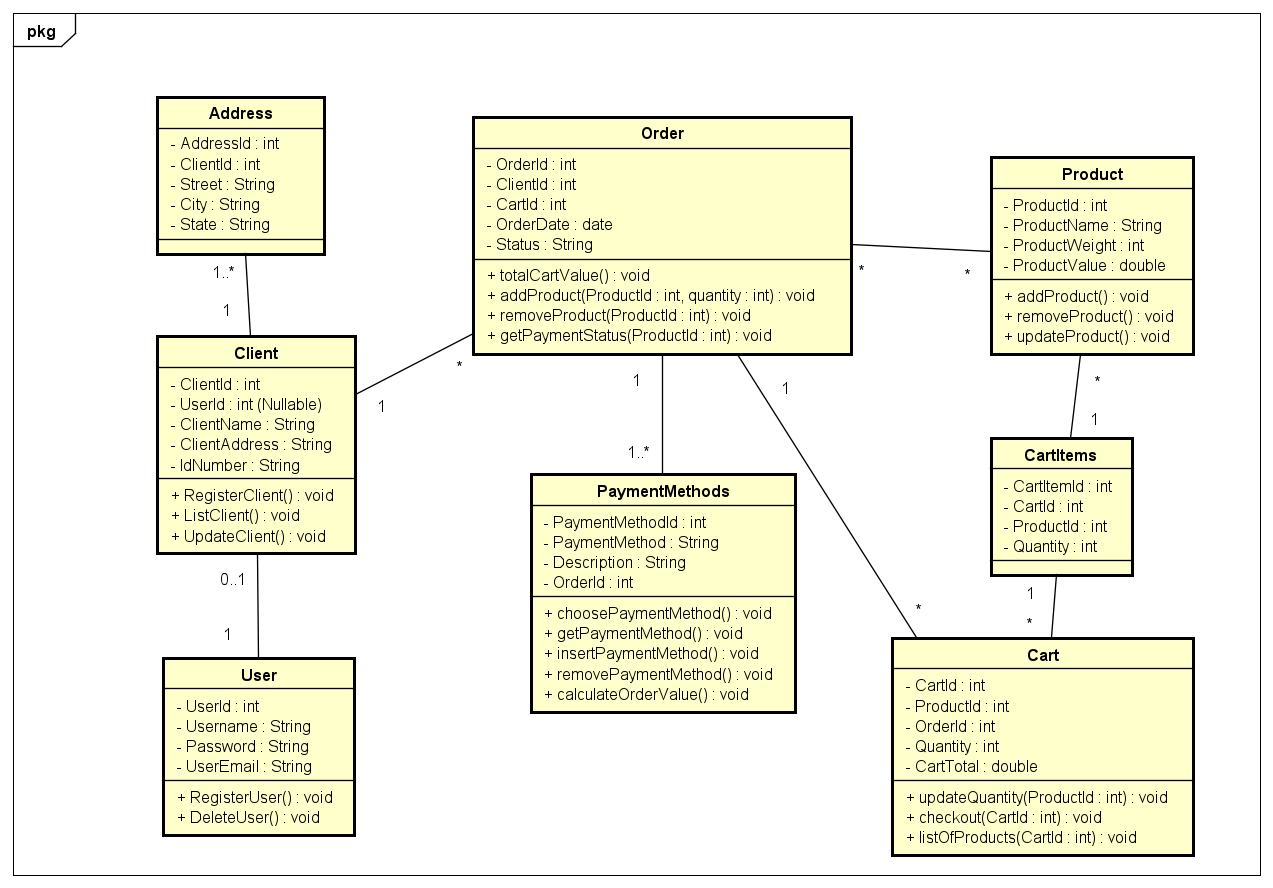
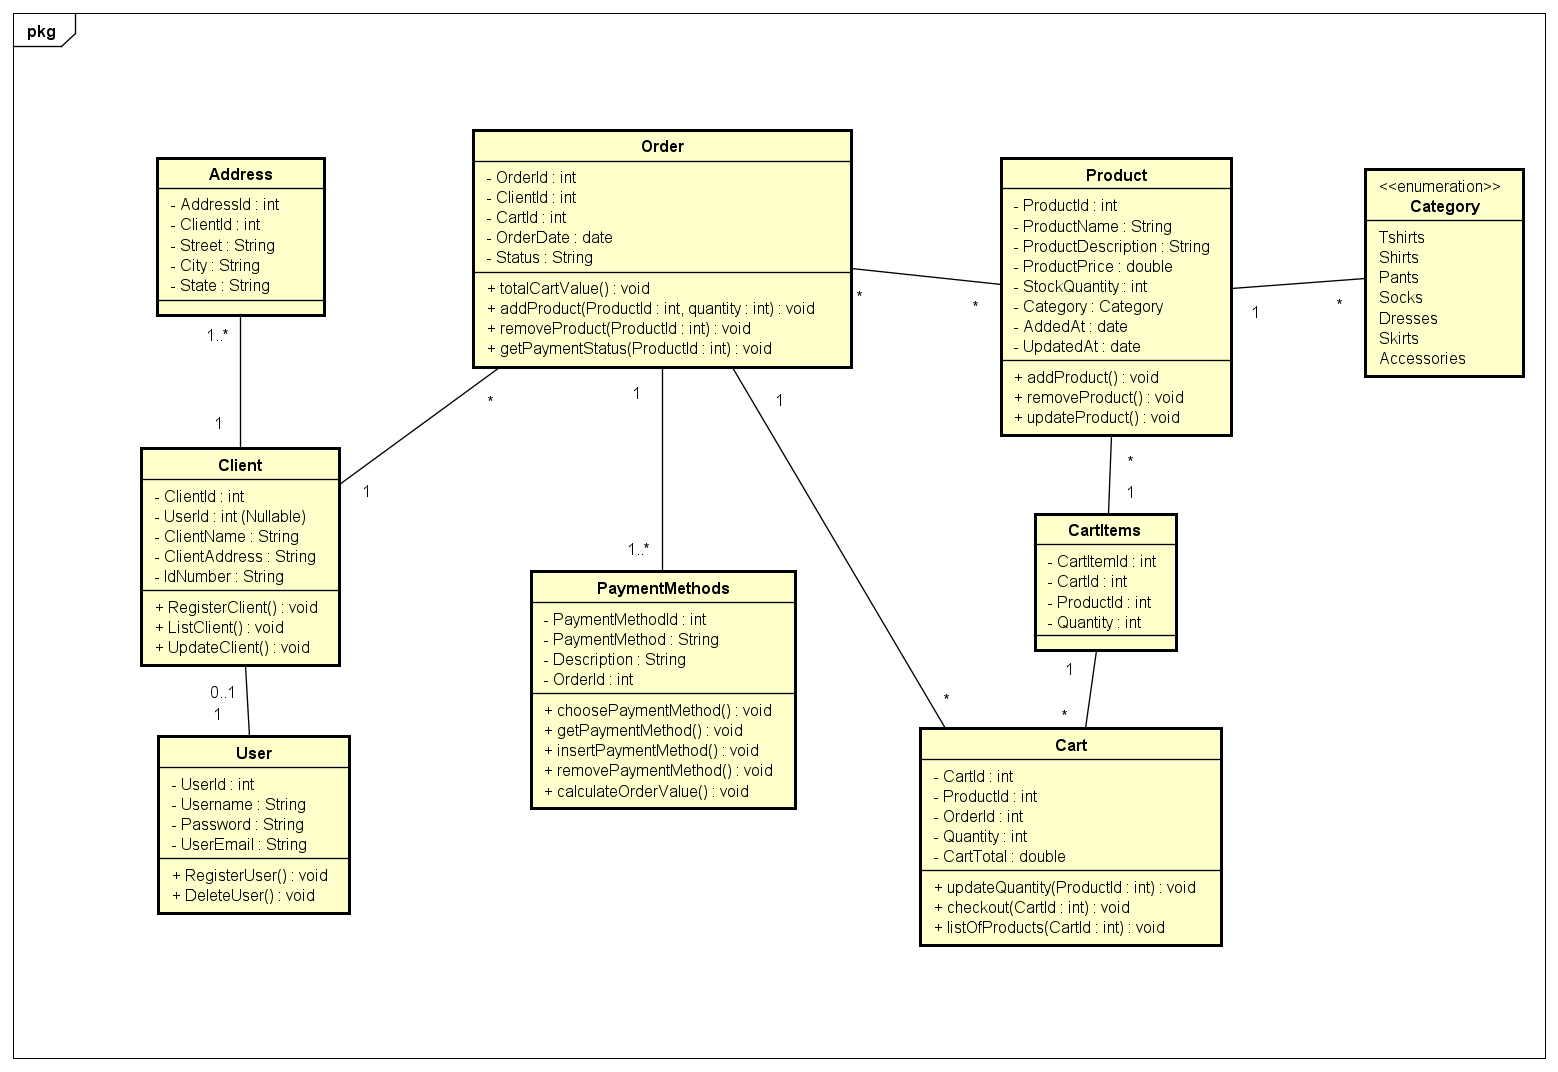
Creating all entities, updating the modeling, adding more endpoints and business rules

diff --git a/src/main/java/br/com/devannis/webmarket/service/ProductService.java b/src/main/java/br/com/devannis/webmarket/service/ProductService.java
@@ -1,0 +1,58 @@
+package br.com.devannis.webmarket.service;
+
+import br.com.devannis.webmarket.exception.ProductNotFoundException;
+import br.com.devannis.webmarket.model.dto.ProductRequestDTO;
+import br.com.devannis.webmarket.model.dto.ProductResponseDTO;
+import br.com.devannis.webmarket.model.entity.Product;
+import br.com.devannis.webmarket.repository.ProductRepository;
+import org.springframework.beans.BeanUtils;
+import org.springframework.beans.factory.annotation.Autowired;
+import org.springframework.stereotype.Service;
+
+import java.time.LocalDateTime;
+import java.util.List;
+import java.util.stream.Collectors;
+
+@Service
+public class ProductService {
+
+    @Autowired
+    private ProductRepository productRepository;
+
+    public ProductResponseDTO addProduct(ProductRequestDTO productRequestDTO) {
+        Product product = new Product();
+
+        BeanUtils.copyProperties(productRequestDTO, product);
+
+        Product savedProduct = productRepository.save(product);
+
+        return new ProductResponseDTO(savedProduct);
+    }
+
+    public ProductResponseDTO searchByProductId(Long id) {
+        Product product = productRepository.findById(id).orElseThrow(() -> new ProductNotFoundException("Product not found"));
+
+        return new ProductResponseDTO(product);
+    }
+
+    public List<ProductResponseDTO> searchAllProducts() {
+        return productRepository
+                .findAll()
+                .stream()
+                .map(ProductResponseDTO::new)
+                .toList();
+    }
+
+    public ProductResponseDTO updateProduct(Product product) {
+        Product existingProduct = productRepository.findById(product.getProductId()).orElseThrow(() -> new ProductNotFoundException("Product not found"));
+
+        Product updatedProduct = productRepository.save(product);
+        return new ProductResponseDTO(updatedProduct);
+    }
+
+    public void deleteProduct(Long id) {
+        Product product = productRepository.findById(id).orElseThrow(() -> new ProductNotFoundException("Product not found"));
+
+        productRepository.delete(product);
+    }
+}

diff --git a/src/main/java/br/com/devannis/webmarket/controller/ProductController.java b/src/main/java/br/com/devannis/webmarket/controller/ProductController.java
@@ -1,0 +1,50 @@
+package br.com.devannis.webmarket.controller;
+
+import br.com.devannis.webmarket.model.dto.ProductRequestDTO;
+import br.com.devannis.webmarket.model.dto.ProductResponseDTO;
+import br.com.devannis.webmarket.model.entity.Product;
+import br.com.devannis.webmarket.service.ProductService;
+import jakarta.validation.Valid;
+import org.springframework.beans.factory.annotation.Autowired;
+import org.springframework.http.HttpStatus;
+import org.springframework.web.bind.annotation.*;
+
+import java.util.List;
+
+@RestController
+@RequestMapping("/products")
+public class ProductController {
+
+    @Autowired
+    private ProductService productService;
+
+    @PostMapping()
+    @ResponseStatus(HttpStatus.CREATED)
+    public ProductResponseDTO createProduct(@RequestBody @Valid ProductRequestDTO product) {
+        return productService.addProduct(product);
+    }
+
+    @GetMapping("/{productId}")
+    @ResponseStatus(HttpStatus.OK)
+    public ProductResponseDTO getProduct(@PathVariable Long productId) {
+        return productService.searchByProductId(productId);
+    }
+
+    @GetMapping()
+    @ResponseStatus(HttpStatus.OK)
+    public List<ProductResponseDTO> getAllProducts() {
+        return productService.searchAllProducts();
+    }
+
+    @PutMapping()
+    @ResponseStatus(HttpStatus.OK)
+    public ProductResponseDTO updateProduct(@RequestBody Product product) {
+        return productService.updateProduct(product);
+    }
+
+    @DeleteMapping("/{productId}")
+    @ResponseStatus(HttpStatus.NO_CONTENT)
+    public void excludeProduct(@PathVariable Long productId) {
+        productService.deleteProduct(productId);
+    }
+}

diff --git a/src/main/java/br/com/devannis/webmarket/model/dto/ProductRequestDTO.java b/src/main/java/br/com/devannis/webmarket/model/dto/ProductRequestDTO.java
@@ -1,30 +1,28 @@
 package br.com.devannis.webmarket.model.dto;
 
+import br.com.devannis.webmarket.model.enums.Category;
 import jakarta.validation.constraints.Min;
 import jakarta.validation.constraints.NotBlank;
 import jakarta.validation.constraints.NotNull;
 
+import java.time.LocalDateTime;
+
 public record ProductRequestDTO(
 
+        Long productId,
+
         @NotBlank(message = "O nome do produto é obrigatório")
-        String name,
+        String productName,
 
-        String description,
-
-        String imageUrl,
+        String productDescription,
 
         @NotNull(message = "O preço do produto é obrigatório")
         @Min(value = 0, message = "O preço deve ser maior ou igual a zero")
-        Double price,
+        Double productPrice,
 
         @NotNull(message = "A quantidade em estoque é obrigatória")
         @Min(value = 0, message = "A quantidade em estoque não pode ser negativa")
-        Integer stockQuantity,
+        int stockQuantity,
 
-        @NotNull(message = "O peso do produto é obrigatório")
-        @Min(value = 0, message = "O peso deve ser maior ou igual a zero")
-        Double weight,
-
-        @NotNull(message = "A categoria do produto é obrigatória")
-        Long categoryId
+        Category category
 ) {}

diff --git a/src/main/java/br/com/devannis/webmarket/model/entity/Order.java b/src/main/java/br/com/devannis/webmarket/model/entity/Order.java
@@ -1,0 +1,35 @@
+package br.com.devannis.webmarket.model.entity;
+
+import jakarta.persistence.*;
+import lombok.AllArgsConstructor;
+import lombok.Getter;
+import lombok.NoArgsConstructor;
+import lombok.Setter;
+
+import java.time.LocalDateTime;
+import java.util.List;
+
+@Entity
+@Table(name = "TB_ORDER")
+@Getter
+@Setter
+@AllArgsConstructor
+@NoArgsConstructor
+public class Order {
+
+    @Id
+    @GeneratedValue(strategy = GenerationType.SEQUENCE, generator = "SEQ_ORDER")
+    @SequenceGenerator(name = "SEQ_ORDER", sequenceName = "SEQ_ORDER", allocationSize = 1)
+    private Long orderId;
+
+    @ManyToOne
+    @JoinColumn(name = "client_id")
+    private Client client;
+
+    @OneToMany
+    private List<Cart> cart;
+
+    private LocalDateTime orderDate;
+
+    private String status;
+}

diff --git a/src/main/java/br/com/devannis/webmarket/model/entity/Cart.java b/src/main/java/br/com/devannis/webmarket/model/entity/Cart.java
@@ -1,0 +1,33 @@
+package br.com.devannis.webmarket.model.entity;
+
+import jakarta.persistence.*;
+import lombok.AllArgsConstructor;
+import lombok.Getter;
+import lombok.NoArgsConstructor;
+import lombok.Setter;
+
+@Entity
+@Table(name = "TB_CART")
+@Getter
+@Setter
+@AllArgsConstructor
+@NoArgsConstructor
+public class Cart {
+
+    @Id
+    @GeneratedValue(strategy = GenerationType.SEQUENCE, generator = "SEQ_CART")
+    @SequenceGenerator(name = "SEQ_CART", sequenceName = "SEQ_CART", allocationSize = 1)
+    private Long cartId;
+
+    @ManyToOne
+    @JoinColumn(name = "product_id")
+    private Product product;
+
+    @ManyToOne
+    @JoinColumn(name = "order_id")
+    private Order order;
+
+    private int quantity;
+
+    private Double cartTotal;
+}

diff --git a/src/main/java/br/com/devannis/webmarket/model/entity/PaymentMethods.java b/src/main/java/br/com/devannis/webmarket/model/entity/PaymentMethods.java
@@ -1,0 +1,29 @@
+package br.com.devannis.webmarket.model.entity;
+
+import jakarta.persistence.*;
+import lombok.AllArgsConstructor;
+import lombok.Getter;
+import lombok.NoArgsConstructor;
+import lombok.Setter;
+
+@Entity
+@Table(name = "TB_PAYMENT_METHODS")
+@Getter
+@Setter
+@AllArgsConstructor
+@NoArgsConstructor
+public class PaymentMethods {
+
+    @Id
+    @GeneratedValue(strategy = GenerationType.SEQUENCE, generator = "SEQ_PAYMENT")
+    @SequenceGenerator(name = "SEQ_PAYMENT", sequenceName = "SEQ_PAYMENT", allocationSize = 1)
+    private Long paymentMethodId;
+
+    private String paymentMethodName;
+
+    private String description;
+
+    @ManyToOne
+    @JoinColumn(name = "order_id")
+    private Order order;
+}

diff --git a/src/main/java/br/com/devannis/webmarket/model/entity/CartItems.java b/src/main/java/br/com/devannis/webmarket/model/entity/CartItems.java
@@ -1,0 +1,31 @@
+package br.com.devannis.webmarket.model.entity;
+
+import jakarta.persistence.*;
+import lombok.AllArgsConstructor;
+import lombok.Getter;
+import lombok.NoArgsConstructor;
+import lombok.Setter;
+
+import java.util.List;
+
+@Entity
+@Table(name = "TB_CART_ITEMS")
+@Getter
+@Setter
+@NoArgsConstructor
+@AllArgsConstructor
+public class CartItems {
+
+    @Id
+    @GeneratedValue(strategy = GenerationType.SEQUENCE, generator = "SEQ_CART_ITEMS")
+    @SequenceGenerator(name = "SEQ_CART_ITEMS", sequenceName = "SEQ_CART_ITEMS", allocationSize = 1)
+    private Long cartItemId;
+
+    @OneToMany
+    private List<Cart> cart;
+
+    @OneToMany
+    private List<Product> products;
+
+    private int quantity;
+}

diff --git a/src/main/java/br/com/devannis/webmarket/model/dto/ProductResponseDTO.java b/src/main/java/br/com/devannis/webmarket/model/dto/ProductResponseDTO.java
@@ -1,0 +1,24 @@
+package br.com.devannis.webmarket.model.dto;
+
+import br.com.devannis.webmarket.model.entity.Product;
+import br.com.devannis.webmarket.model.enums.Category;
+
+public record ProductResponseDTO(
+        Long productId,
+        String name,
+        String description,
+        Double price,
+        Integer stockQuantity,
+        Category category
+) {
+    public ProductResponseDTO(Product product) {
+        this (
+            product.getProductId(),
+                product.getProductName(),
+                product.getProductDescription(),
+                product.getProductPrice(),
+                product.getStockQuantity(),
+                product.getCategory()
+        );
+    }
+}

diff --git a/src/main/java/br/com/devannis/webmarket/service/ClientService.java b/src/main/java/br/com/devannis/webmarket/service/ClientService.java
@@ -70,14 +70,8 @@ public class ClientService {
     }
 
     public void deleteClientById(Long id) {
-        Optional<Client> clientOptional = clientRepository.findById(id);
+        Client existingClient = clientRepository.findById(id).orElseThrow(() -> new ClientNotFoundException("Client not found"));
 
-        if (clientOptional.isPresent()) {
-            System.out.println(clientOptional.get());
-
-            clientRepository.delete(clientOptional.get());
-        } else {
-            throw new ClientNotFoundException("Client do not exist");
-        }
+        clientRepository.delete(existingClient);
     }
 }

diff --git a/src/main/java/br/com/devannis/webmarket/model/entity/Product.java b/src/main/java/br/com/devannis/webmarket/model/entity/Product.java
@@ -1,5 +1,6 @@
 package br.com.devannis.webmarket.model.entity;
 
+import br.com.devannis.webmarket.model.enums.Category;
 import jakarta.persistence.*;
 import lombok.AllArgsConstructor;
 import lombok.Getter;
@@ -31,7 +32,7 @@ public class Product {
     private Double productPrice;
 
     @Column(name = "stock")
-    private Integer stockQuantity;
+    private int stockQuantity;
 
     @Enumerated(EnumType.STRING)
     private Category category;

diff --git a/src/main/java/br/com/devannis/webmarket/controller/UserController.java b/src/main/java/br/com/devannis/webmarket/controller/UserController.java
@@ -34,7 +34,7 @@ public class UserController {
     @GetMapping("/{userId}")
     @ResponseStatus(HttpStatus.OK)
     public ResponseEntity<UserResponseDTO> searchById(@PathVariable Long userId) {
-        return ResponseEntity.ok(userService.searchById(userId));
+        return ResponseEntity.ok(userService.searchByUserId(userId));
     }
 
     @DeleteMapping("/{userId}")

diff --git a/src/main/java/br/com/devannis/webmarket/exception/ProductNotFoundException.java b/src/main/java/br/com/devannis/webmarket/exception/ProductNotFoundException.java
@@ -1,0 +1,12 @@
+package br.com.devannis.webmarket.exception;
+
+import org.springframework.http.HttpStatus;
+import org.springframework.web.bind.annotation.ResponseStatus;
+
+@ResponseStatus(HttpStatus.NOT_FOUND)
+public class ProductNotFoundException extends RuntimeException {
+
+    public ProductNotFoundException(String message) {
+        super(message);
+    }
+}
